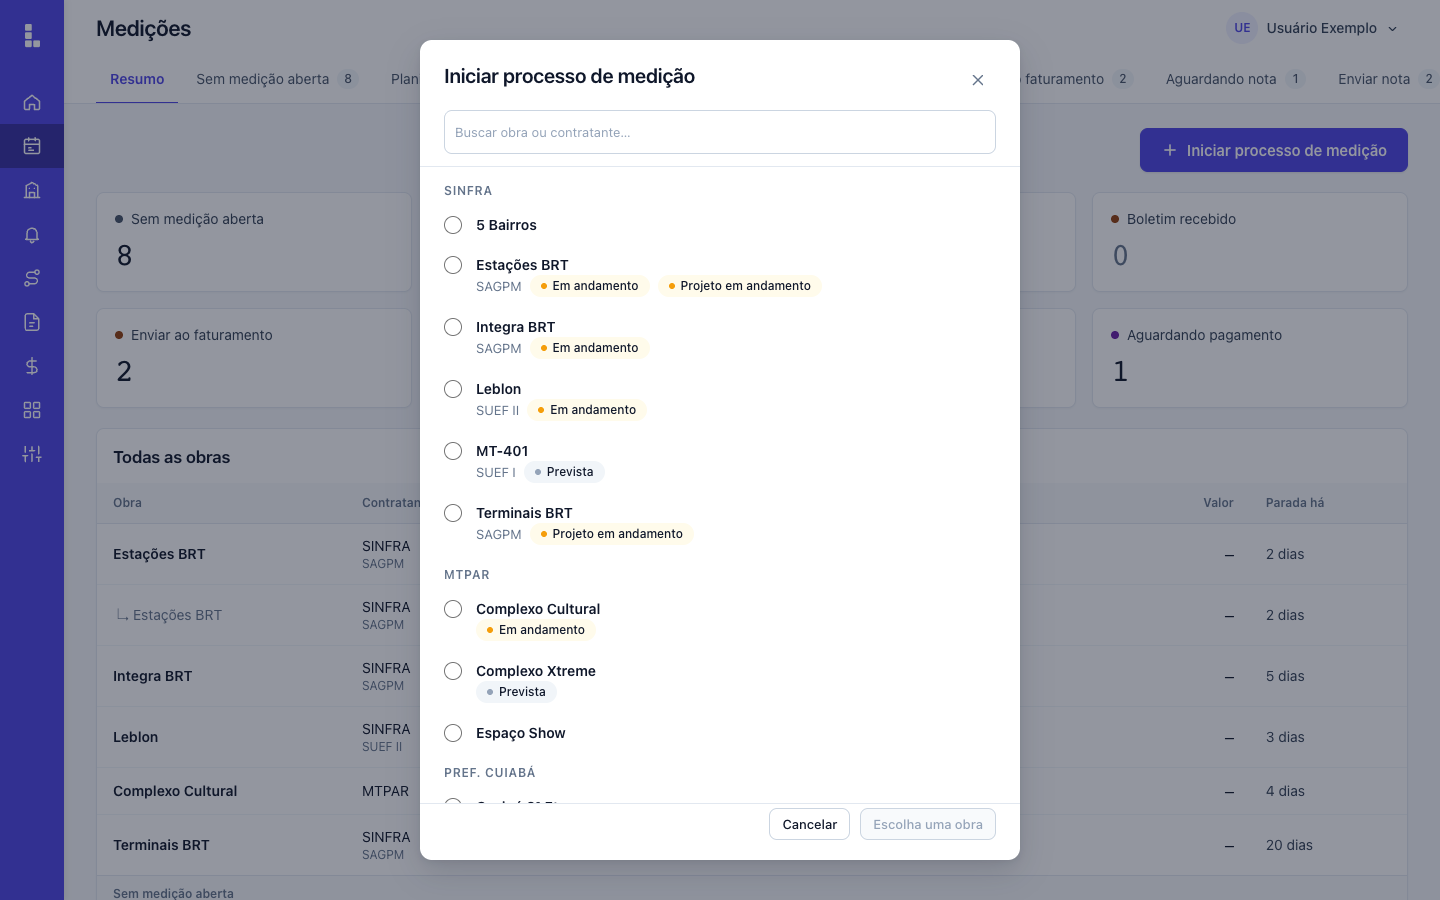
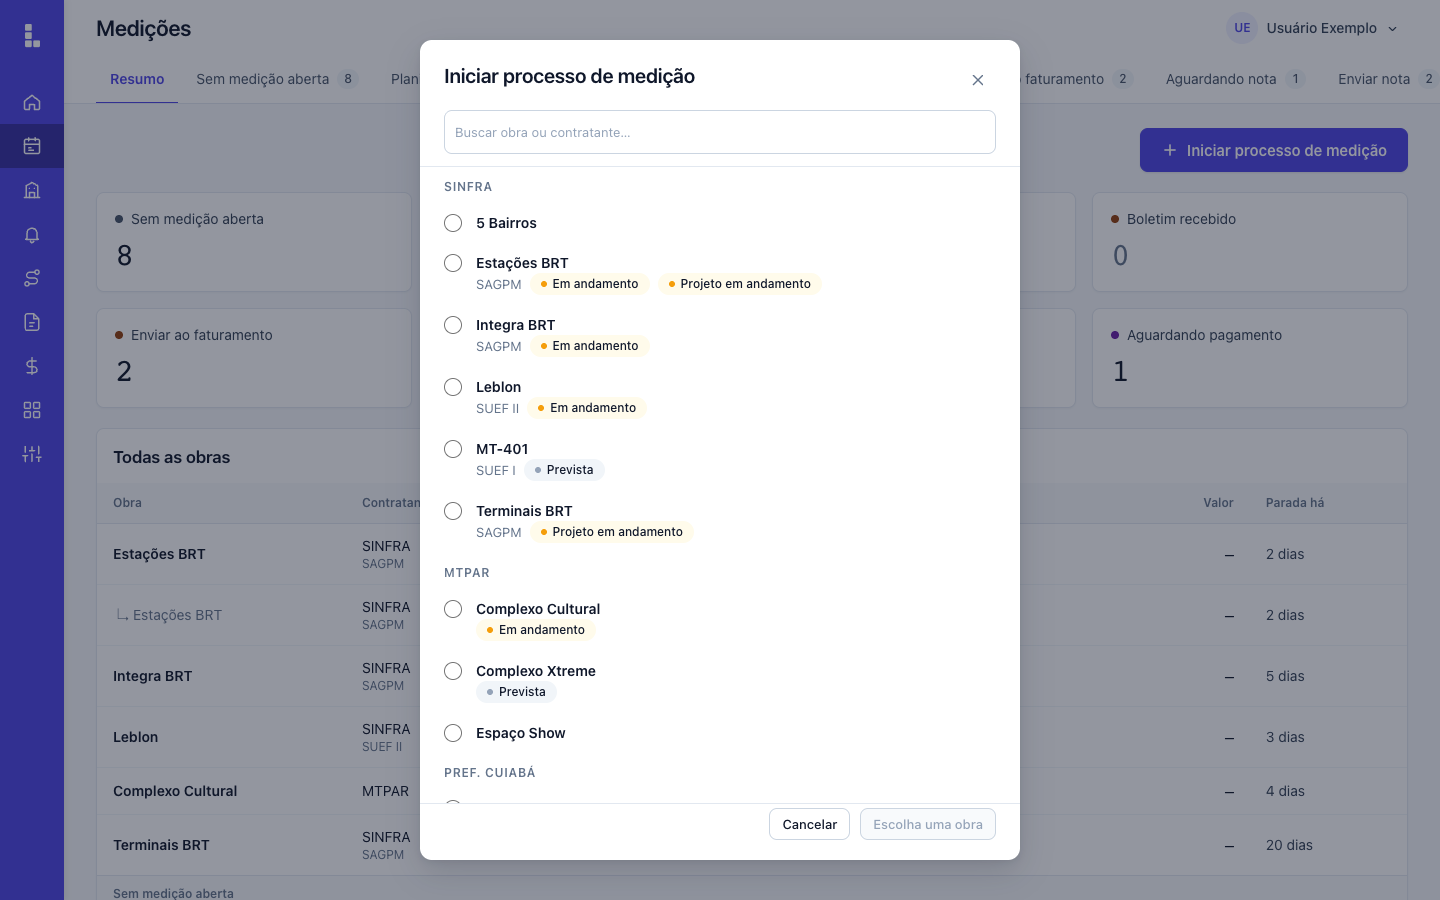
fix: obra escolhida escondida pela busca, motivo do botao desligado e cabecalho do grupo na janela Iniciar processo (#151)

diff --git a/frontend/src/MedicoesPagina.test.tsx b/frontend/src/MedicoesPagina.test.tsx
@@ -151,7 +151,7 @@ describe("Medições com abas", () => {
       expect(numero.value).toBe("12");
       expect((within(janela).getByLabelText("Competência") as HTMLInputElement).value).toBe("01/2027");
       fireEvent.change(numero, { target: { value: "15" } });
-      fireEvent.click(within(janela).getByRole("button", { name: "Começar a 15ª pelo espelho" }));
+      fireEvent.click(within(janela).getByRole("button", { name: "Começar a 15ª de Cavalaria pelo espelho" }));
       expect(window.location.pathname + window.location.search).toBe("/obras/4/medicoes/nova?numero=15&competencia=2027-01");
     });
 
@@ -176,7 +176,7 @@ describe("Medições com abas", () => {
       const janela = await abrir();
       escolher(janela, "Cavalaria");
       fireEvent.click(within(janela).getByRole("radio", { name: "Projeto" }));
-      fireEvent.click(within(janela).getByRole("button", { name: "Começar a 3ª de Projeto pelo espelho" }));
+      fireEvent.click(within(janela).getByRole("button", { name: "Começar a 3ª de Projeto de Cavalaria pelo espelho" }));
       expect(window.location.pathname + window.location.search).toBe("/obras/4/medicoes/nova?numero=3&competencia=2026-09&tipo=projeto");
     });
 
@@ -189,6 +189,29 @@ describe("Medições com abas", () => {
       expect(within(janela).getByText(/tem a 4ª de Projeto prevista pelo cronograma \(07\/2026\)/)).toBeTruthy();
       fireEvent.click(within(janela).getByRole("button", { name: "Começar a 4ª de Projeto pelo espelho" }));
       expect(window.location.pathname).toBe("/obras/21/medicoes/950");
+    });
+
+    it("a obra escolhida que a busca esconde deixa de valer: o rodapé volta ao início e o botão de começar some", async () => {
+      const janela = await abrir();
+      escolher(janela, "Cavalaria");
+      expect(within(janela).getByRole("button", { name: "Começar a 12ª de Cavalaria pelo espelho" })).toBeTruthy();
+      fireEvent.change(within(janela).getByRole("searchbox"), { target: { value: "terminais" } });
+      expect(within(janela).queryByRole("button", { name: /Começar a/ })).toBeNull();
+      expect(within(janela).queryByLabelText(/Nº da medição/)).toBeNull();
+      expect((within(janela).getByRole("button", { name: "Escolha uma obra" }) as HTMLButtonElement).disabled).toBe(true);
+      // a busca limpa traz a escolha de volta
+      fireEvent.change(within(janela).getByRole("searchbox"), { target: { value: "" } });
+      expect(within(janela).getByRole("button", { name: "Começar a 12ª de Cavalaria pelo espelho" })).toBeTruthy();
+    });
+
+    it("botão desligado diz o motivo: número inválido ou competência vazia", async () => {
+      const janela = await abrir();
+      escolher(janela, "Cavalaria");
+      fireEvent.change(within(janela).getByLabelText(/Nº da medição/), { target: { value: "0" } });
+      expect((within(janela).getByRole("button", { name: "Informe o número" }) as HTMLButtonElement).disabled).toBe(true);
+      fireEvent.change(within(janela).getByLabelText(/Nº da medição/), { target: { value: "12" } });
+      fireEvent.change(within(janela).getByLabelText("Competência"), { target: { value: "" } });
+      expect((within(janela).getByRole("button", { name: "Informe a competência" }) as HTMLButtonElement).disabled).toBe(true);
     });
 
     it("sem número o botão não segue; a busca filtra e mostra o vazio", async () => {

diff --git a/frontend/src/IniciarMedicao.tsx b/frontend/src/IniciarMedicao.tsx
@@ -75,10 +75,12 @@ export default function IniciarMedicao({ obras, aoFechar }: { obras: ObraResumo[
     if (typeof d.showModal === "function") d.showModal(); else d.setAttribute("open", "");
   }, []);
 
-  const grupos = porContratante(filtrarObras(obras, termo));
+  const visiveis = filtrarObras(obras, termo);
+  const grupos = porContratante(visiveis);
   // jsdom (testes) nao implementa close(): la' o fechar avisa direto quem abriu
   const fechar = () => { const d = janela.current; if (d && typeof d.close === "function") d.close(); else aoFechar(); };
-  const obra = obras.find(o => o.contrato_id === escolhida) ?? null;
+  // a obra escolhida que a busca esconde não vale: o rodapé e o botão seguiriam com ela sem ninguém ver qual é
+  const obra = visiveis.find(o => o.contrato_id === escolhida) ?? null;
 
   function sugerir(o: ObraResumo, t: Tipo) {
     const u = lerSerie(o, t)?.ultima ?? null;
@@ -129,7 +131,8 @@ export default function IniciarMedicao({ obras, aoFechar }: { obras: ObraResumo[
           <button type="button" className="btn btn--primario" onClick={() => ir_({ tela: "medicao", obra: o.contrato_id, id: serie.prevista_id as number })}>
             Começar a {serie.prevista_numero}ª{de} pelo espelho</button></div></>;
     }
-    const pronto = /^[1-9][0-9]{0,2}$/.test(numero) && competencia !== "";
+    const numeroOk = /^[1-9][0-9]{0,2}$/.test(numero);
+    const pronto = numeroOk && competencia !== "";
     return <>{escolhaTipo}
       <div className="iniciar__campos">
         <label className="iniciar__campo" htmlFor="iniciar-numero"><span>Nº da medição{de}</span>
@@ -141,7 +144,7 @@ export default function IniciarMedicao({ obras, aoFechar }: { obras: ObraResumo[
       <div className="iniciar__botoes">{cancelar}
         <button type="button" className="btn btn--primario" disabled={!pronto}
           onClick={() => ir_({ tela: "nova-medicao", obra: o.contrato_id }, { numero, competencia, ...(tipo === "projeto" ? { tipo } : {}) })}>
-          {numero ? `Começar a ${numero}ª${de} pelo espelho` : "Informe o número"}</button></div></>;
+          {!numeroOk ? "Informe o número" : competencia === "" ? "Informe a competência" : `Começar a ${numero}ª${de} de ${o.obra} pelo espelho`}</button></div></>;
   }
 
   return (

diff --git a/frontend/src/medicoes.css b/frontend/src/medicoes.css
@@ -161,9 +161,9 @@
 .iniciar__fechar { width: 36px; height: 36px; flex: none; padding: 0; justify-content: center; border: 0; background: none; color: var(--texto-2); border-radius: var(--raio-ctrl); cursor: pointer; display: inline-flex; align-items: center; }
 .iniciar__fechar:hover { background: var(--hover); }
 .iniciar__busca { height: 44px; flex: none; margin: 0 24px 12px; width: auto; }
-.iniciar__lista { flex: 1 1 auto; min-height: 120px; overflow-y: auto; border-top: 1px solid var(--linha); padding: 4px 12px 8px; }
+.iniciar__lista { flex: 1 1 auto; min-height: 120px; overflow-y: auto; border-top: 1px solid var(--linha); padding: 0 12px 8px; }
 .iniciar__contratante {
-  position: sticky; top: 0; z-index: 1; margin: 0; padding: 12px 12px 6px; background: var(--superficie);
+  position: sticky; top: 0; z-index: 1; margin: 0; padding: 12px 12px 8px; background: var(--superficie); box-shadow: 0 -1px 0 var(--superficie);
   font-size: 12px; line-height: 16px; font-weight: 600; letter-spacing: .06em; text-transform: uppercase; color: var(--texto-2);
 }
 .iniciar__obra { display: grid; grid-template-columns: 20px minmax(0, 1fr); gap: 12px; align-items: start; padding: 10px 12px; border-radius: var(--raio-ctrl); cursor: pointer; }
@@ -200,7 +200,7 @@
   .iniciar { width: 100vw; max-width: 100vw; max-height: calc(100dvh - 24px); margin: auto 0 0; border-radius: 12px 12px 0 0; }
   .iniciar__cabeca { padding: 18px 16px 10px; }
   .iniciar__busca { margin: 0 16px 10px; }
-  .iniciar__lista { padding: 4px 4px 8px; }
+  .iniciar__lista { padding: 0 4px 8px; }
   .iniciar__rodape { padding: 14px 16px 16px; }
   .iniciar__botoes { flex-direction: column-reverse; }
   .iniciar__botoes .btn { width: 100%; }
